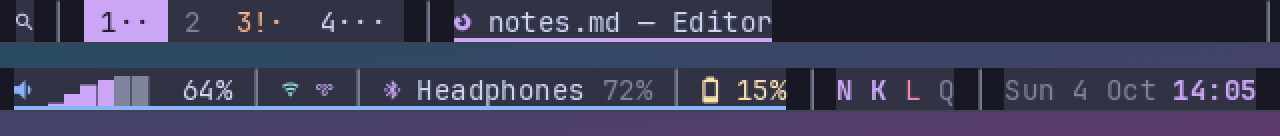
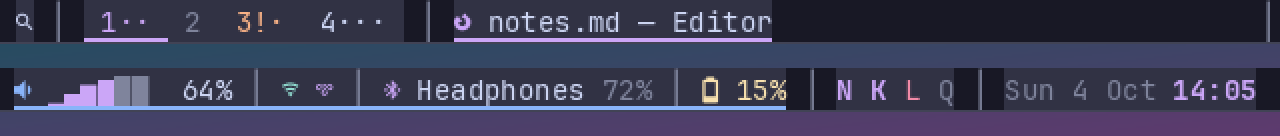
docs: README — the load figure task 9 measured, the powerline and underline images after Mae's rulings
After 8,300 events: ≈ 9.6–9.7 MB (9834–9916 KB in task 9's three release runs), as CLAUDE.md records. style-powerline.png and style-underline.png regenerated with task 9's throwaway paint_bar program (fictional data); style-pills.png is islands and did not change.

Claude-Session: https://claude.ai/code/session_01HzNeDR4JYYs9cqajYqdQVP

Changed region(s): [[0.0625, 0.0, 0.1562, 0.2941]]

diff --git a/README.md b/README.md
@@ -33,7 +33,7 @@ outputs). alpheus figures are release builds. Updated with every delivery.
 | Component | Memory | Notes |
 |---|---:|---|
 | Bar daemon, all modules + launcher, 3 outputs — at start | ≈ 8.1 MB | headless sway test, `tests/memory.rs`, recorded D-Bus services on a private bus; libdbus shared with the session; tray unused (≈ 8.8–8.9 MB with the tray and 10 fake items, but that test runs without the launcher module) |
-| Bar daemon — after 8,300 events and 5 plug cycles | ≈ 8.9–9.2 MB | stable, 0 wake-ups at rest, the theme watch adds no wake-up, 6 threads (D-Bus through dbus-rs/libdbus: one thread; the launcher and the tray add none) |
+| Bar daemon — after 8,300 events and 5 plug cycles | ≈ 9.6–9.7 MB | stable, 0 wake-ups at rest, the theme watch adds no wake-up, 6 threads (D-Bus through dbus-rs/libdbus: one thread; the launcher and the tray add none) |
 | Tray, module present, no item | ≈ 0.4 MB | watcher + session connection only, no thread (376–392 KB) |
 | Tray, 10 fake items (5 KDE-, 2 Qt-, 2 Chromium-style, 1 Steam-like) | ≈ 0.5 MB | 488–496 KB, ≤ 2 MB budget, `ten_fake_items_cost_at_most_2_mb`; menu and calendar popups freed on close (20 cycles: +32 KB in each of 3 runs) |
 | Tray, linked in but unused (no `tray` in `modules`, no session bus) | +0.4–0.7 MB vs. the delivery before this one | one-time cost of a bigger binary (stripped 4.49 → 5.36 MB, +864 KB: libdbus linkage, menus, popups, calendar); measured back to back in release, a real cost, like the launcher's |
@@ -196,7 +196,7 @@ Coming next: now-playing and notifications, the OSD, notification toasts.
 
 At rest the bar never wakes up except for its timers (the clock, and the
 resources every 2 s when shown): measured 0 wake-ups at rest, ≈ 8.1 MB
-of memory at start (≈ 8.8–8.9 MB with a tray of 10 items, launcher module off) and ≈ 8.9–9.2 MB under load,
+of memory at start (≈ 8.8–8.9 MB with a tray of 10 items, launcher module off) and ≈ 9.6–9.7 MB under load,
 on three outputs. The
 compositor is only **read** (Hyprland or niri event stream); switching
 workspace goes through a configurable command. Sound comes from
